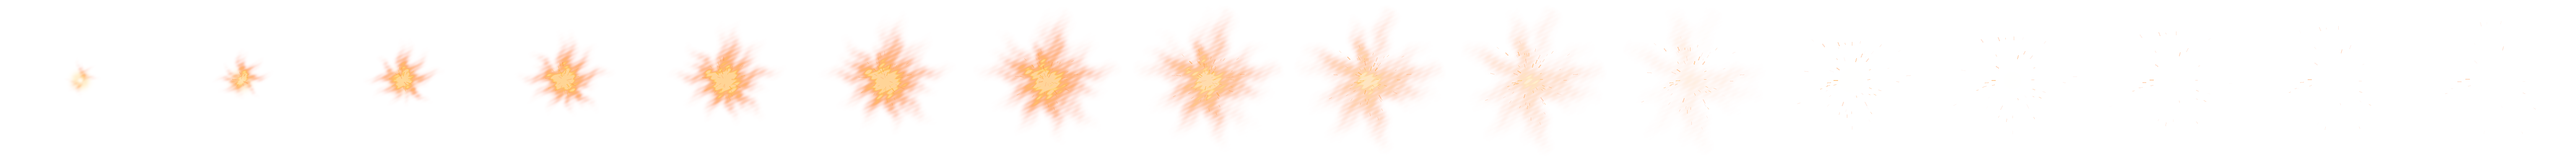
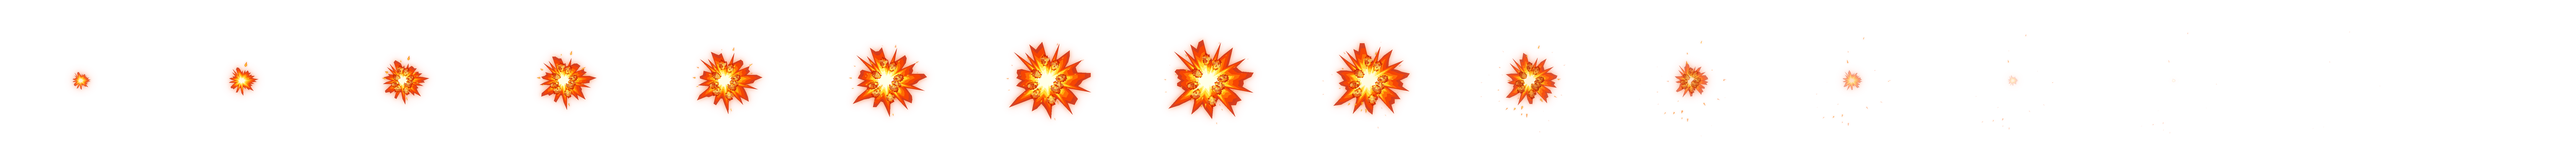
assets: apply approved Steel Dragon Core Overheat V2

Changed region(s): [[0.0625, 0.1562, 0.75, 0.7812], [0.5938, 0.6875, 0.625, 0.75]]

diff --git a/docs/INDEX.md b/docs/INDEX.md
@@ -31,7 +31,7 @@
 | **결정이 이미 있는지 확인** | [decisions.md](decisions.md) ← **작업 시작 전에 본다** |
 | **버그 고치기** | [known-issues.md](known-issues.md) → [codemap.md](codemap.md) 해당 줄 |
 | **망령룡 작업** | [characters/revenant-dragon.md](characters/revenant-dragon.md) → [characters/revenant-dragon-progress.md](characters/revenant-dragon-progress.md) |
-| **강철룡 작업** | [characters/steel-dragon.md](characters/steel-dragon.md) (A안·공통 배기·제작 현황·Legacy) |
+| **강철룡 작업** | [characters/steel-dragon.md](characters/steel-dragon.md) (A안·공통 배기·제작 현황·Legacy, [노심 과열파 V2](characters/steel-dragon.md#스킬-2--노심-과열파-용광-해방형)) |
 | **망계의 업화 피격 불꽃** | [A/B 비교·B안 적용과 판정](characters/revenant-soulfire-hit-preview.md) |
 | **망계의 업화 기획·원본 에셋** | [characters/revenant-dragon-nether-soulfire.md](characters/revenant-dragon-nether-soulfire.md) |
 | **망령룡 스킬 그림 고르기** | [characters/revenant-dragon-skill-concepts.md](characters/revenant-dragon-skill-concepts.md) |

diff --git a/docs/STATE.md b/docs/STATE.md
@@ -11,7 +11,7 @@
 
 ## 한눈에
 
-- [강철룡 스킬 2 노심 과열파](characters/steel-dragon.md#스킬-2--노심-과열파-용광-해방형)를 PR #129에 연동한다. 시전자 중심 단발 광역 피해, 원형 파동, 자세별 갑주 냉각을 적용했다. 신규 연출과 실제 플레이는 사용자 검수 대상이다.
+- [강철룡 스킬 2 노심 과열파](characters/steel-dragon.md#스킬-2--노심-과열파-용광-해방형)를 PR #129에 연동한다. 시전자 중심 단발 광역 피해와 자세별 갑주 냉각을 유지하며 Work 승인 V2 폭발 시트(중심 화염·검은 연기·원형 파동)를 적용했다. 신규 연출과 실제 플레이는 사용자 검수 대상이다.
 
 - [강철룡 스킬 1 용광 폭렬탄](characters/steel-dragon.md#스킬-1--용광-폭렬탄)을 후속 브랜치에서 적용했다. 지정 대상 포탄, 직접·주변 일회 피해, V3를 보존한 12프레임 이중 충격파를 연결했다. 사용자 시각·실전 검수와 밸런스 조정이 남았다.
 
